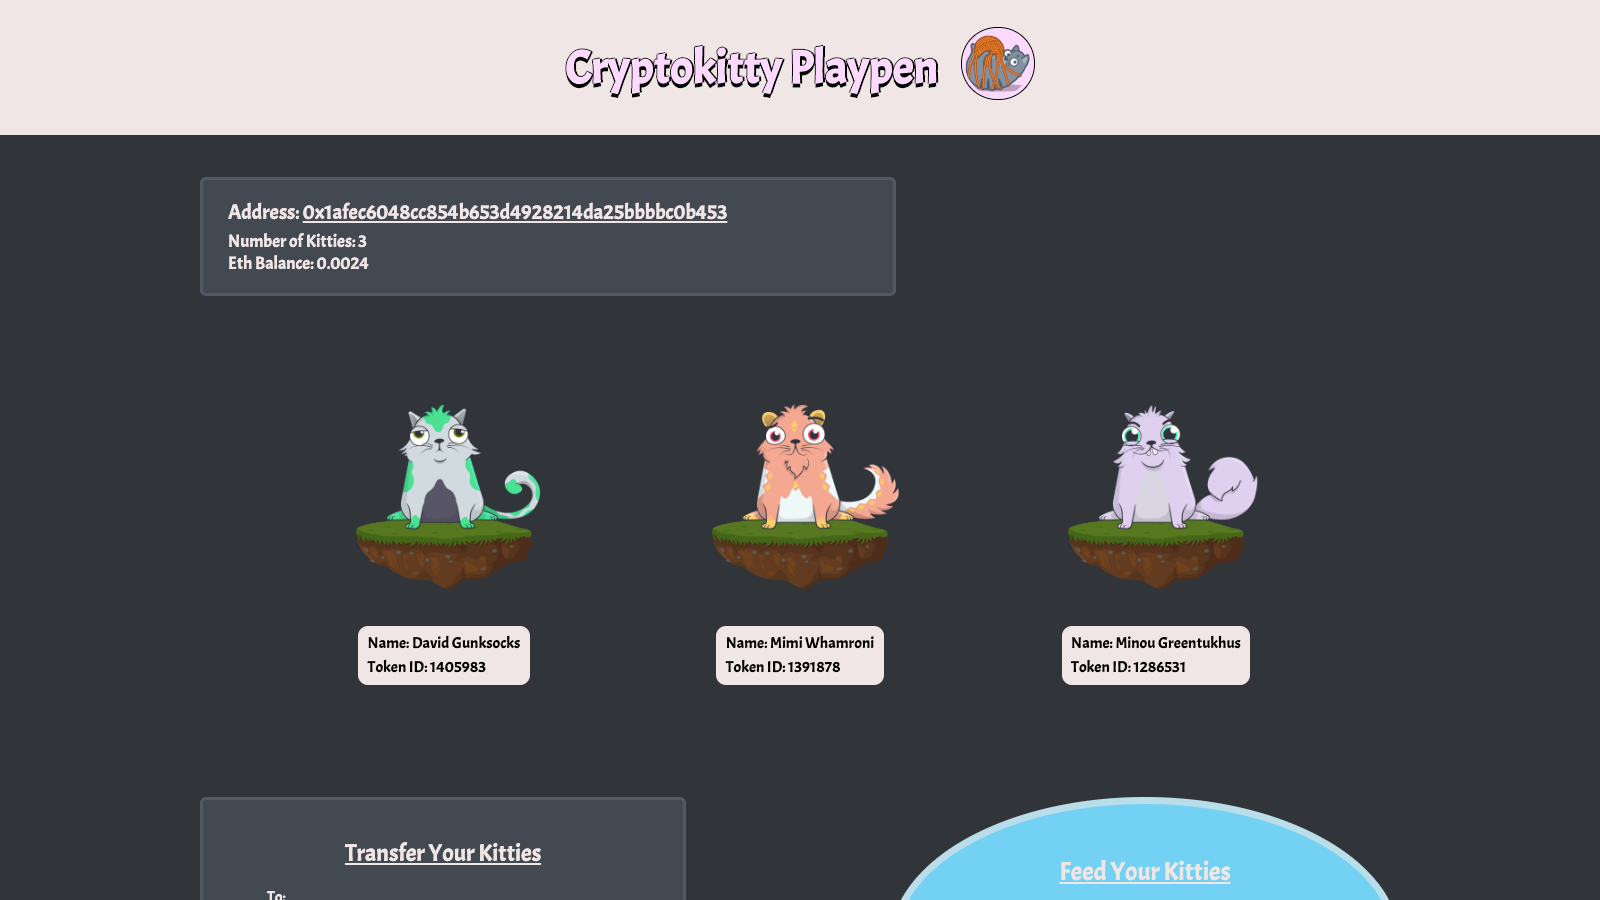
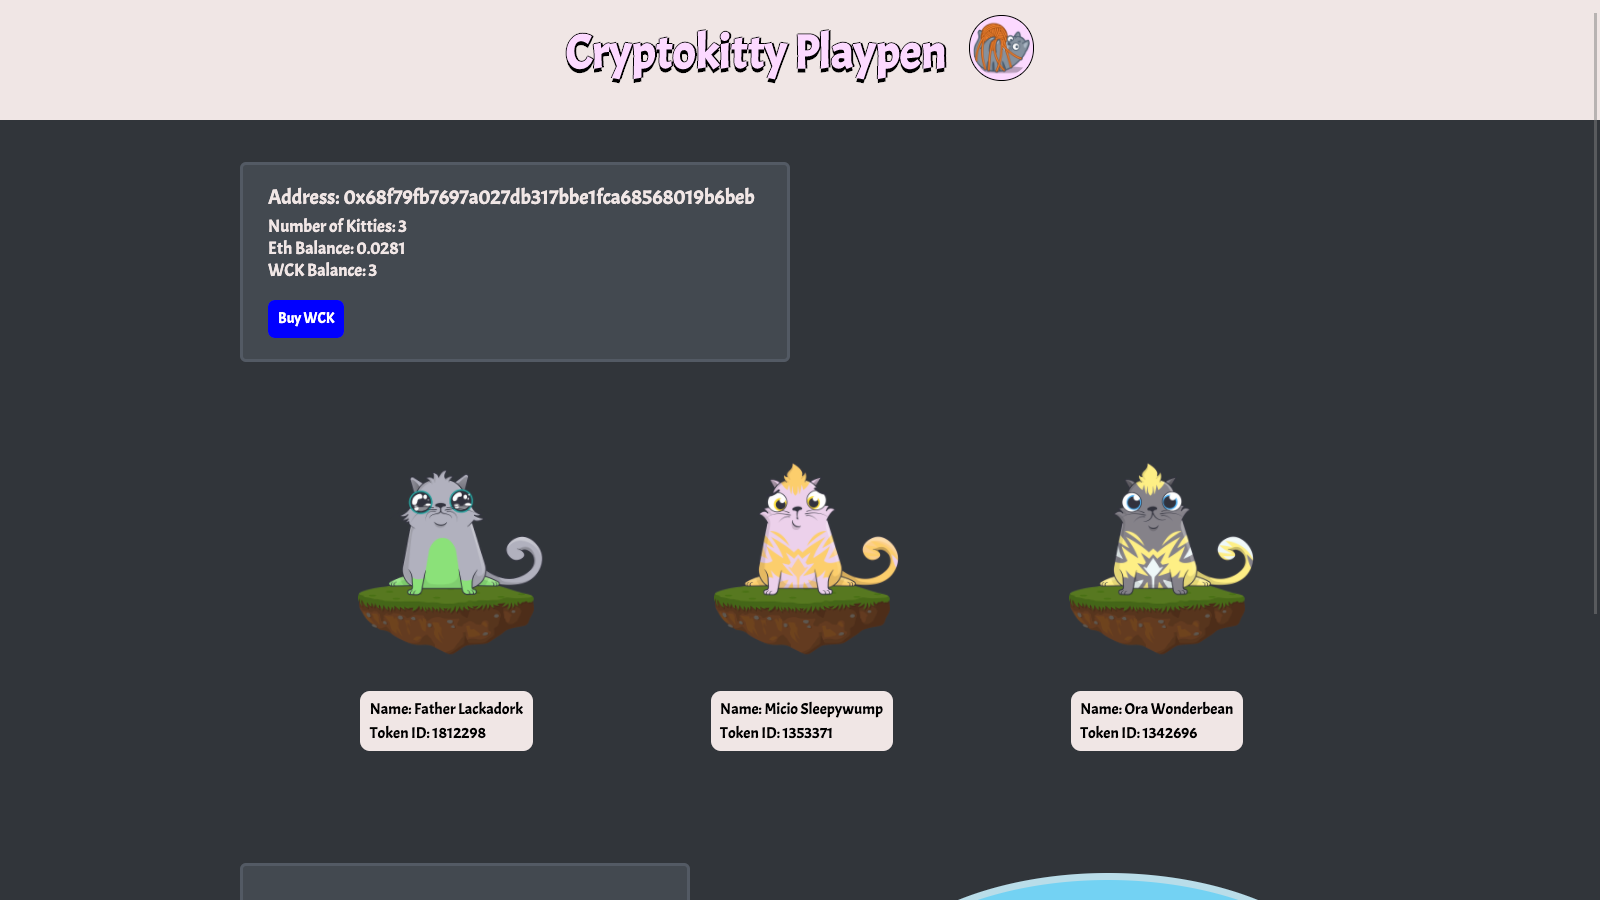
updated cryptokitty playpen description

diff --git a/index.html b/index.html
@@ -160,7 +160,7 @@
             <h3 class="mb-0">CryptoKitty Playpen</h3>
             <div class="subheading mb-3">A place to play with your cryptokittes.</div>
             <img class="img-fluid mx-auto mb-2" src="img/cryptokittyplaypen.jpg" alt="">
-            <div>Description: The CryptoKitty Playpen allows users to view and interact with their cryptokitties after connecting their MetaMask account. Feeding the kitties a fish will make them jump for joy. Users can also transfer their kitties to another address using the transfer interface.</div>
+            <div>Description: The CryptoKitty Playpen allows users to view and interact with their cryptokitties. Feeding the kitties a fish will make them jump for joy. Users can also transfer, wrap, or unwrap their cryptokitties.</div>
             <br>
             <div>Tools: React, Web3.js, OpenSea API, React Spring, ERC721 Standard, CSS3</div>
             <div class="social-icons">
